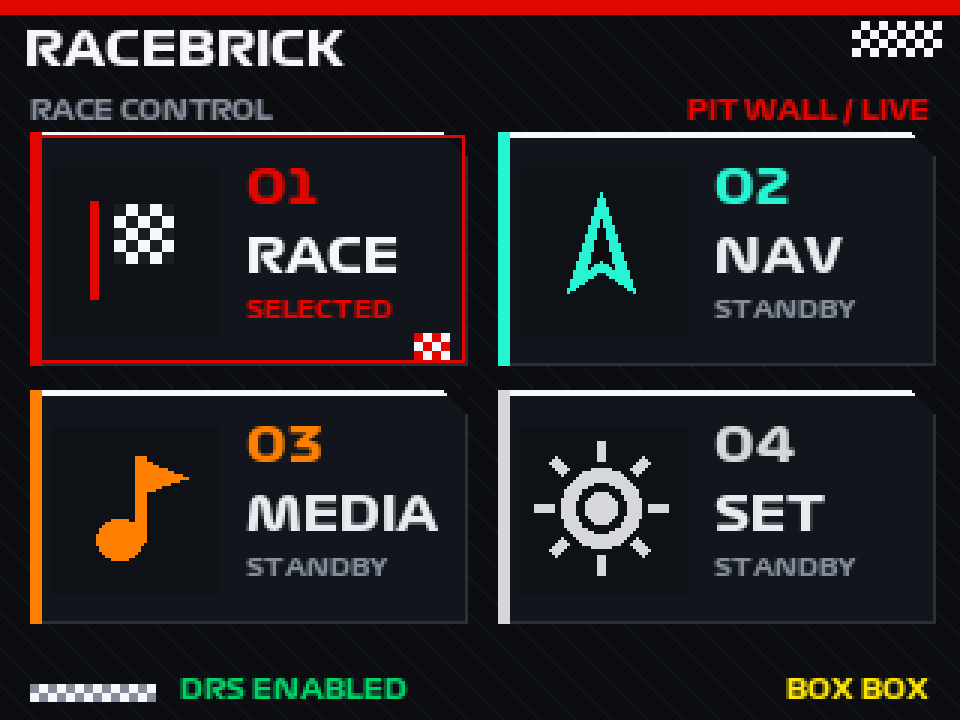
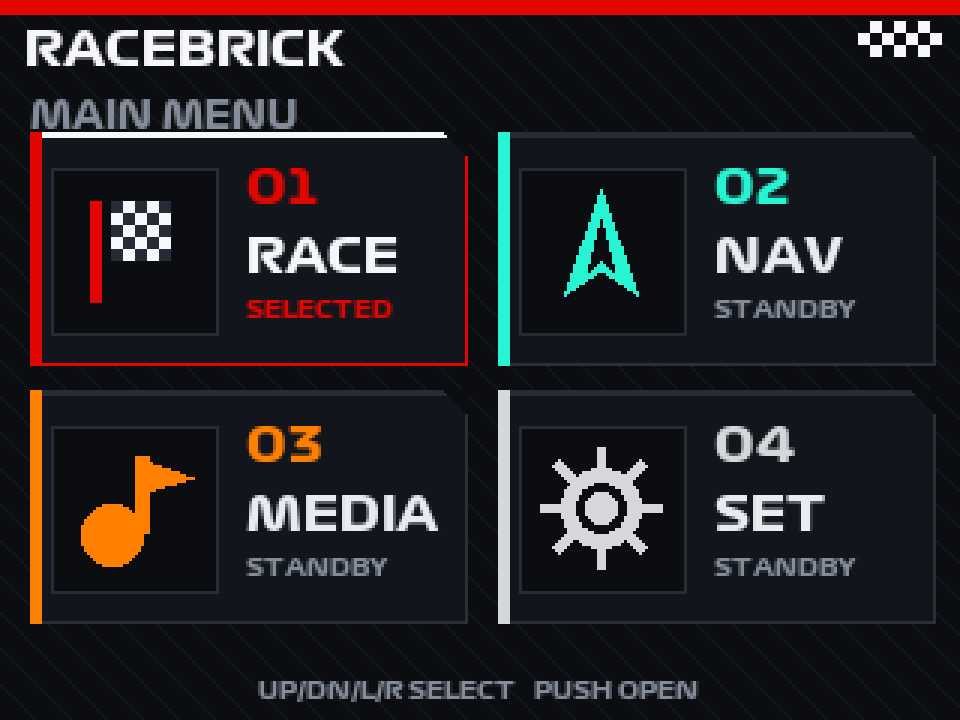
trim F1 theme to functional layouts and refresh previews

diff --git a/firmware/src/screens.c b/firmware/src/screens.c
@@ -144,14 +144,6 @@ static void f1_panel(int x, int y, int w, int h, bool on, uint16_t accent) {
     for (int i = 0; i < 7; i++) gfx_hline(x + w - 8 + i, y + i, 8 - i, PAL.stage);
 }
 
-static void f1_tire(int cx, int cy, int r, uint16_t ring, char compound) {
-    gfx_disc(cx, cy, r, PAL.surface2);
-    gfx_circle(cx, cy, r, ring);
-    gfx_circle(cx, cy, r - 2, ring);
-    char b[2] = { compound, 0 };
-    gfx_text_center(cx, cy - 4, b, PAL.white, 0);
-}
-
 static void f1_header(const char *title) {
     gfx_fill(0, 0, CW, 4, PAL.cyan);
     f1_checker(CW - 34, 7, 28, 12, 4, PAL.white, PAL.stage);
@@ -197,8 +189,7 @@ static void render_home_f1(void) {
         gfx_line(i, 0, i + CH, CH, PAL.line2);
     }
     f1_header("RACEBRICK");
-    gfx_text(10, 32, "RACE CONTROL", PAL.dim, 1);
-    gfx_text_right(CW - 10, 32, "PIT WALL / LIVE", PAL.cyan, 1);
+    gfx_text(10, 32, "MAIN MENU", PAL.dim, 1);
 
     static const char *items[4] = {"RACE", "NAV", "MEDIA", "SET"};
     static const char *nums[4] = {"01", "02", "03", "04"};
@@ -217,11 +208,8 @@ static void render_home_f1(void) {
         gfx_text(x + 72, y + 10, nums[i], accents[i], 2);
         gfx_text(x + 72, y + 33, items[i], on ? PAL.white : PAL.text, 2);
         gfx_text(x + 72, y + 55, on ? "SELECTED" : "STANDBY", on ? accents[i] : PAL.dim, 0);
-        if (on) f1_checker(x + w - 18, y + h - 12, 12, 8, 4, PAL.white, PAL.cyan);
     }
-    f1_checker(10, CH - 12, 44, 6, 3, PAL.white, PAL.dim);
-    gfx_text(62, CH - 14, "DRS ENABLED", PAL.green, 1);
-    gfx_text_right(CW - 10, CH - 14, "BOX BOX", PAL.yellow, 1);
+    gfx_text_center(CW / 2, CH - 14, "UP/DN/L/R SELECT   PUSH OPEN", PAL.dim, 0);
 }
 
 static void render_home(void) {
@@ -886,10 +874,7 @@ static void render_racing_panel(bool recorded, engine_t *e, float dt) {
     if (g.panel == 0) {
         racing_map(recorded, e, dt);
         int rx = 156;
-        if (f1_ui()) {
-            gfx_fill(rx, 0, CW - rx, 3, PAL.cyan);
-            f1_checker(CW - 30, 7, 24, 8, 4, PAL.white, PAL.stage);
-        }
+        if (f1_ui()) gfx_fill(rx, 0, CW - rx, 3, PAL.cyan);
         gfx_text(rx, 6, "LIVE", PAL.dim, 1);
         u_fmt_time(b, sizeof b, e->elapsed);
         gfx_text(rx, 20, b, PAL.white, 2);
@@ -918,13 +903,9 @@ static void render_racing_panel(bool recorded, engine_t *e, float dt) {
             u_fmt_time(b, sizeof b, e->track->best);
             gfx_text_right(CW - 12, y + 6, b, PAL.gold, 1);
         }
+        if (f1_ui()) hint_c("LEFT/RIGHT SWITCH PANEL", HINT_Y);
     } else if (g.panel == 1) {
-        if (f1_ui()) {
-            gfx_fill(0, 0, CW, 3, PAL.cyan);
-            f1_checker(CW - 72, 4, 24, 8, 4, PAL.white, PAL.stage);
-            f1_tire(CW - 24, 23, 9, PAL.yellow, 'M');
-            gfx_text_right(CW - 40, 17, "DRS", PAL.green, 1);
-        }
+        if (f1_ui()) gfx_fill(0, 0, CW, 3, PAL.cyan);
         gfx_text(12, 8, "LAP", PAL.cyan, 1);
         snprintf(b2, sizeof b2, "%d", e->lap);
         gfx_text(12 + gfx_text_w("LAP ", 1), 8, b2, PAL.cyan, 1);
@@ -975,6 +956,7 @@ static void render_racing_panel(bool recorded, engine_t *e, float dt) {
             gfx_text_right(CW - 12, y + 10, vals[i], c, 0);
             gfx_hline(rx, y + 22, CW - 12 - rx, PAL.line2);
         }
+        if (f1_ui()) hint_c("LEFT/RIGHT SWITCH PANEL", HINT_Y);
     } else {
         gfx_fill(0, 0, CW, CH, PAL.stage);
         title_c("SECTOR SPLITS", 6);

diff --git a/docs/F1-THEME.md b/docs/F1-THEME.md
@@ -42,8 +42,10 @@ theme reference.
 Host-rendered 3x previews with the real Formula1 Display Bold and the F1 palette:
 
 - [Home](theme/f1-home.png)
-- [Race timing tower](theme/f1-race-tower.png)
+- [Race map / live](theme/f1-race-map.png)
 - [Race timer](theme/f1-race-timer.png)
+- [Race speed / G](theme/f1-race-speed.png)
+- [Sector splits](theme/f1-race-sectors.png)
 - [Settings / UI STYLE](theme/f1-settings.png)
 
 These are design previews; the on-device version uses the same font, palette and
